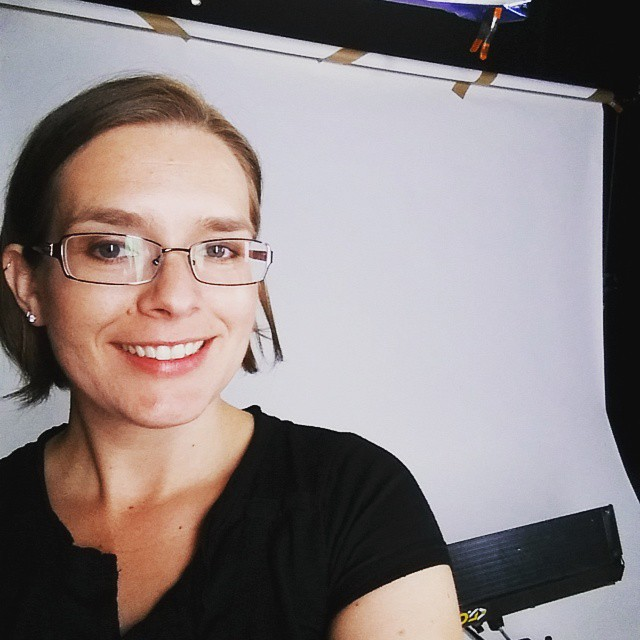
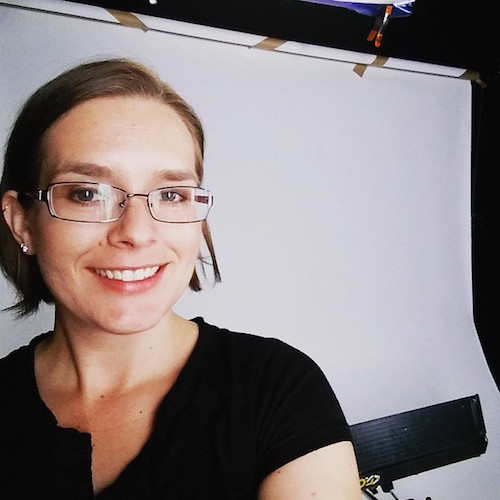
about me layout

diff --git a/views/about-me.html b/views/about-me.html
@@ -2,19 +2,19 @@
   <div class="row">
     <div class="col-lg-12">
       <div class="col-lg-6">
-        <img src="assets/images/mishaleclairglasses.jpg" class="img-fluid">
+        <img src="assets/images/mishaleclairglasses.jpg" class="img-fluid about-me-image">
       </div>
-      <div class="col-lg-6">
+      <div class="col-lg-6 about-me-brand">
         <ul>
           <li>Dedicated and Driven</li>
           <li>Passionate About Problem Solving</li>
           <li>Experienced Storyteller</li>
         </ul>
       </div>
-      <div class="col-lg-6">
+      <div class="col-lg-6 about-me-pitch">
         <p>I am a full stack web developer with a comprehensive background in storytelling, research, leadership and a history meeting deadlines under pressure. I gravitate toward server-side development and data structures. I pay close attention to user experience and building a cohesive, intuitive product on the front end.</p>
       </div>
-      <div class="col-lg-6 ">
+      <div class="col-lg-6 about-me-skills">
         <ul>
           <li>HTML, CSS, JavaScript, jQuery, Angular</li>
           <li>Node.js, Express, MongoDB, Mongoose</li>

diff --git a/assets/scss/main.scss b/assets/scss/main.scss
@@ -31,6 +31,27 @@ body {
   max-width: 100%;
 }
 
+.about-me-image {
+  max-height: 450px;
+  margin-left: 3em;
+}
+
+.about-me-brand, .about-me-pitch, .about-me-skills {
+  margin-top: 2.5em;
+}
+
+.about-me-brand {
+
+}
+
+.about-me-pitch {
+
+}
+
+.about-me-skills {
+
+}
+
 .project-view {
   margin: .5em;
 }

diff --git a/assets/css/main.css b/assets/css/main.css
@@ -28,6 +28,15 @@ body p, body li {
   max-width: 100%;
 }
 
+.about-me-image {
+  max-height: 450px;
+  margin-left: 3em;
+}
+
+.about-me-brand, .about-me-pitch, .about-me-skills {
+  margin-top: 2.5em;
+}
+
 .project-view {
   margin: .5em;
 }
